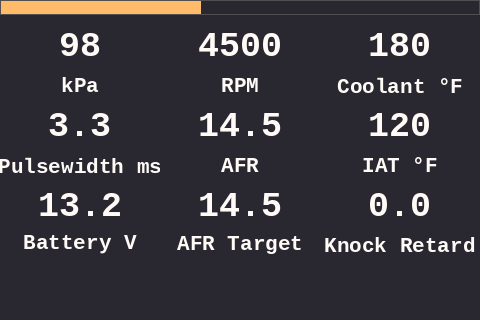
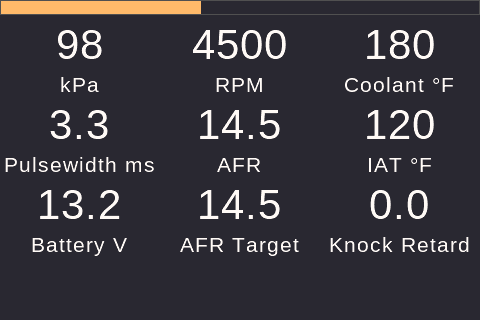
sim: renderer uses real ZI glyphs

diff --git a/sim/renderer.py b/sim/renderer.py
@@ -8,6 +8,8 @@ import os
 
 from PIL import Image, ImageDraw, ImageFont
 
+from sim.font import ZiFont
+
 
 # Component type IDs (subset; matches Nextion2Text.Component.attributes["type"]["mapping"])
 T_PAGE = 121
@@ -106,6 +108,59 @@ def align_text(draw: ImageDraw.ImageDraw, text: str, font, box, xcen, ycen,
     draw.text((tx, ty), text, font=font, fill=fill)
 
 
+def _zi_text_width(font: ZiFont, codepoints: list[int]) -> int:
+    """Total advance width for a sequence of font codepoints."""
+    return sum(font.glyph_width(cp) or font.width or 0 for cp in codepoints)
+
+
+def draw_zi_text(
+    img: Image.Image,
+    text: str,
+    font: ZiFont,
+    box: tuple[int, int, int, int],
+    xcen: int,
+    ycen: int,
+    fill: tuple[int, int, int],
+) -> None:
+    """Render `text` glyph-by-glyph onto `img` using the ZI bitmap font.
+
+    Each glyph's L-mode mask is colorised with `fill` and pasted at
+    integer pixel coordinates. The component's box is used for alignment.
+    Text that overflows the box is allowed to spill — Nextion firmware
+    behaves the same.
+    """
+    x, y, w, h = box
+    cps = font.encode_text(text)
+    tw = _zi_text_width(font, cps)
+    th = font.height
+    if xcen == 1:
+        tx = x + (w - tw) // 2
+    elif xcen == 2:
+        tx = x + w - tw
+    else:
+        tx = x
+    if ycen == 1:
+        ty = y + (h - th) // 2
+    elif ycen == 2:
+        ty = y + h - th
+    else:
+        ty = y
+    # Solid-color L-mode -> RGBA with the component's pco. We composite
+    # each glyph individually so anti-aliased pixels blend with the bg.
+    cursor = tx
+    for cp in cps:
+        gw = font.glyph_width(cp) or font.width or 0
+        if gw <= 0:
+            continue
+        mask = font.glyph_image(cp)
+        # Build a coloured patch the same size as the mask, then paste using
+        # the mask as alpha. img is RGB so we go through the L mask directly.
+        # Pillow's `paste(color, box, mask)` accepts an L-mode mask.
+        img.paste(fill, (cursor, ty, cursor + mask.size[0], ty + mask.size[1]),
+                  mask)
+        cursor += gw
+
+
 def format_xfloat(val: int, vvs0: int, vvs1: int) -> str:
     """Format an XFloat. vvs0 = padding/leading-zero count, vvs1 = decimals.
 
@@ -131,7 +186,30 @@ def format_xfloat(val: int, vvs0: int, vvs1: int) -> str:
     return s
 
 
-def render_component(draw: ImageDraw.ImageDraw, c, page_bg):
+def _draw_text(
+    img: Image.Image,
+    draw: ImageDraw.ImageDraw,
+    text: str,
+    font_id,
+    fonts: dict,
+    box: tuple[int, int, int, int],
+    xcen: int,
+    ycen: int,
+    fill,
+) -> None:
+    """Render `text` using the ZI font for `font_id` if available, else the TTF substitute."""
+    zi = fonts.get(font_id) if isinstance(font_id, int) else None
+    if zi is not None:
+        draw_zi_text(img, text, zi, box, xcen, ycen, fill)
+        return
+    _, _, _, h = box
+    font_pt = font_size_for(font_id, h)
+    ttf = load_font(font_pt)
+    align_text(draw, text, ttf, box, xcen, ycen, fill)
+
+
+def render_component(img: Image.Image, draw: ImageDraw.ImageDraw, c, page_bg, fonts: dict | None = None):
+    fonts = fonts or {}
     a = c.rawData["att"]
     t = a.get("type")
     if t in INVISIBLE_TYPES:
@@ -169,9 +247,7 @@ def render_component(draw: ImageDraw.ImageDraw, c, page_bg):
 
     if t == T_TEXT or t == T_SCROLLING_TEXT:
         txt = a.get("txt", "") or ""
-        font_pt = font_size_for(a.get("font"), h)
-        font = load_font(font_pt)
-        align_text(draw, txt, font, (x, y, w, h),
+        _draw_text(img, draw, txt, a.get("font"), fonts, (x, y, w, h),
                    a.get("xcen", 1), a.get("ycen", 1), pco)
         return
 
@@ -181,17 +257,13 @@ def render_component(draw: ImageDraw.ImageDraw, c, page_bg):
             s = format_xfloat(val, a.get("vvs0", 0) or 0, a.get("vvs1", 0) or 0)
         else:
             s = str(val)
-        font_pt = font_size_for(a.get("font"), h)
-        font = load_font(font_pt)
-        align_text(draw, s, font, (x, y, w, h),
+        _draw_text(img, draw, s, a.get("font"), fonts, (x, y, w, h),
                    a.get("xcen", 1), a.get("ycen", 1), pco)
         return
 
     if t == T_BUTTON:
         txt = a.get("txt", "") or ""
-        font_pt = font_size_for(a.get("font"), h)
-        font = load_font(font_pt)
-        align_text(draw, txt, font, (x, y, w, h),
+        _draw_text(img, draw, txt, a.get("font"), fonts, (x, y, w, h),
                    a.get("xcen", 1), a.get("ycen", 1), pco)
         return
 
@@ -243,12 +315,13 @@ class Renderer:
             bg = (255, 255, 255)
         img = Image.new("RGB", (w, h), bg)
         draw = ImageDraw.Draw(img)
+        fonts = getattr(state, "fonts", {}) or {}
         # Render in id order (matches Nextion paint order)
         for c in sorted(page.components, key=lambda c: c.attrs.get("id", 0)):
             # Adapt: render_component expects a Nextion2Text-style component
             # with c.rawData["att"]. Build a tiny shim.
             shim = type("Shim", (), {"rawData": {"att": c.attrs}})()
-            render_component(draw, shim, bg)
+            render_component(img, draw, shim, bg, fonts)
         # Composite the per-page draw overlay (filled by `fill`/`xstr`/etc.
         # primitives invoked from event scripts). Nextion paints these on
         # top of static components.

diff --git a/tests/sim/test_renderer.py b/tests/sim/test_renderer.py
@@ -46,3 +46,62 @@ def test_renderer_composites_overlay(hmi_path):
     assert px[0] > 200 and px[1] < 60 and px[2] < 60, f"expected red, got {px}"
     # And outside the rect, the pixel should match the base render.
     assert base.getpixel((10, 10)) == after.getpixel((10, 10))
+
+
+def test_renderer_uses_zi_glyphs_when_available(hmi_path):
+    """The 'RPM' label on the main page should be rendered with the project's
+    actual ZI font (font 0). We assert by inspecting the t1 component's box
+    and checking that ink pixels appear in the component's pco color, sized
+    to the ZI font's height (24 px) — not the heuristic Liberation Mono
+    point size (~70% of comp height ~21pt rasterised)."""
+    state = load_hmi(hmi_path)
+    assert 0 in state.fonts, "ZI font 0 must be loaded for this assertion"
+    img = Renderer().render(state)
+    main = state.pages["main"]
+    t1 = main.by_name("t1")
+    assert t1.attrs.get("txt") == "RPM"
+    # The t1 component box; gather pixels in pco colour inside it.
+    bx, by = t1.attrs["x"], t1.attrs["y"]
+    bw, bh = t1.attrs["w"], t1.attrs["h"]
+    pco = t1.attrs.get("pco")
+    assert pco is not None
+    # Convert the RGB565 pco to RGB888 (matches renderer's mapping).
+    r = ((pco >> 11) & 0x1F) * 255 // 31
+    g = ((pco >> 5) & 0x3F) * 255 // 63
+    b = (pco & 0x1F) * 255 // 31
+    target = (r, g, b)
+    found_target = 0
+    for x in range(bx, bx + bw):
+        for y in range(by, by + bh):
+            if img.getpixel((x, y)) == target:
+                found_target += 1
+    # ZI rendering pastes solid pco wherever the alpha mask is fully opaque,
+    # so we expect a substantial number of exactly-matching pixels.
+    assert found_target > 50, f"expected real glyph ink in t1 box, found {found_target}"
+    # And the ink should be vertically constrained to roughly the font height
+    # (24 px), not spread across the full 30 px box.
+    inked_rows = set()
+    for x in range(bx, bx + bw):
+        for y in range(by, by + bh):
+            if img.getpixel((x, y)) == target:
+                inked_rows.add(y)
+    if inked_rows:
+        span = max(inked_rows) - min(inked_rows) + 1
+        assert span <= state.fonts[0].height, (
+            f"ink spans {span}px, expected <= ZI font height {state.fonts[0].height}px"
+        )
+
+
+def test_renderer_falls_back_to_ttf_when_font_missing(hmi_path):
+    """If a component references a font_id we don't have, the renderer must
+    not crash — it falls back to the TTF substitute path."""
+    state = load_hmi(hmi_path)
+    # Force the t1 label to use a non-existent font id.
+    main = state.pages["main"]
+    t1 = main.by_name("t1")
+    t1.attrs["font"] = 99
+    # And also clear the fonts dict to simulate "ZI fonts unavailable".
+    state.fonts = {}
+    img = Renderer().render(state)
+    main_attrs = state.pages["main"].attrs
+    assert img.size == (main_attrs["w"], main_attrs["h"])

diff --git a/sim/draw.py b/sim/draw.py
@@ -86,14 +86,23 @@ def xstr(state: DisplayState, x: int, y: int, w: int, h: int,
          font_id: int, pco: int, bco: int, xcen: int, ycen: int,
          sta: int, text: str) -> None:
     """Draw text in a rect with the same alignment/style rules render_component uses
-    for Text components. Use Liberation Mono Bold (or Pillow default) sized to ~70%
-    of `h`. xcen: 0=left,1=center,2=right. ycen: 0=top,1=center,2=bottom. sta: 0=crop,
-    1=solid bg, 2=image (treat 2 like 0 for now)."""
+    for Text components. Uses the project's ZI font for `font_id` if available,
+    otherwise falls back to Liberation Mono Bold (or Pillow default) sized to
+    ~70% of `h`. xcen: 0=left,1=center,2=right. ycen: 0=top,1=center,2=bottom.
+    sta: 0=crop, 1=solid bg, 2=image (treat 2 like 0 for now)."""
     overlay = _ensure_overlay(state)
     draw = ImageDraw.Draw(overlay)
     if sta == 1:
         draw.rectangle([x, y, x + w - 1, y + h - 1], fill=_rgba(bco))
-    font_pt = font_size_for(font_id, h)
-    font = load_font(font_pt)
-    align_text(draw, text, font, (x, y, w, h), xcen, ycen, _rgba(pco))
+    zi = (getattr(state, "fonts", {}) or {}).get(font_id)
+    if zi is not None:
+        # draw_zi_text expects an RGB image and a 3-tuple fill, but we have
+        # an RGBA overlay. Use the RGBA fill directly — Pillow's paste with
+        # an L-mode mask works fine on RGBA targets.
+        from sim.renderer import draw_zi_text
+        draw_zi_text(overlay, text, zi, (x, y, w, h), xcen, ycen, _rgba(pco))
+    else:
+        font_pt = font_size_for(font_id, h)
+        font = load_font(font_pt)
+        align_text(draw, text, font, (x, y, w, h), xcen, ycen, _rgba(pco))
     state.dirty = True

diff --git a/sim/loader.py b/sim/loader.py
@@ -4,6 +4,7 @@ import codecs
 import sys
 
 from sim.state import DisplayState, Page, Component
+from sim.font import parse_zi, ZiFont
 
 
 _ANSI_CODEC_REGISTERED = False
@@ -114,4 +115,23 @@ def load_hmi(path: str | Path) -> DisplayState:
         raise ValueError(f"no pages parsed from {path}")
     state = DisplayState(pages=pages)
     state.program_s = getattr(hmi, "programS", "") or ""
+
+    # Pull each ZI font directory entry out of the HMI raw bytes. Keyed by
+    # the integer prefix of the .zi filename — `0.zi` -> 0 — which matches
+    # the `font` attribute on Text/XFloat/Number components.
+    for entry in hmi.header.content:
+        name = entry.name
+        if not name.endswith(".zi"):
+            continue
+        try:
+            font_id = int(name.split(".", 1)[0])
+        except ValueError:
+            continue
+        blob = hmi.raw[entry.start:entry.start + entry.size]
+        try:
+            state.fonts[font_id] = parse_zi(blob)
+        except Exception:
+            # Unsupported / malformed font → leave it absent; renderer will
+            # use the TTF fallback for this font_id.
+            continue
     return state

diff --git a/sim/state.py b/sim/state.py
@@ -75,6 +75,10 @@ class DisplayState:
     sys: list[int] = field(default_factory=lambda: [0, 0, 0])
     # P1: program-script lines (Program.s), parsed lazily by app boot
     program_s: str = ""
+    # ZI fonts pulled out of the HMI, keyed by font id (the integer prefix
+    # of the .zi filename — e.g. `0.zi` => 0). Empty when fonts couldn't be
+    # parsed; renderer falls back to a TTF substitute in that case.
+    fonts: dict = field(default_factory=dict)
 
     def __post_init__(self):
         self.pages_by_id = {p.id: p for p in self.pages.values()}